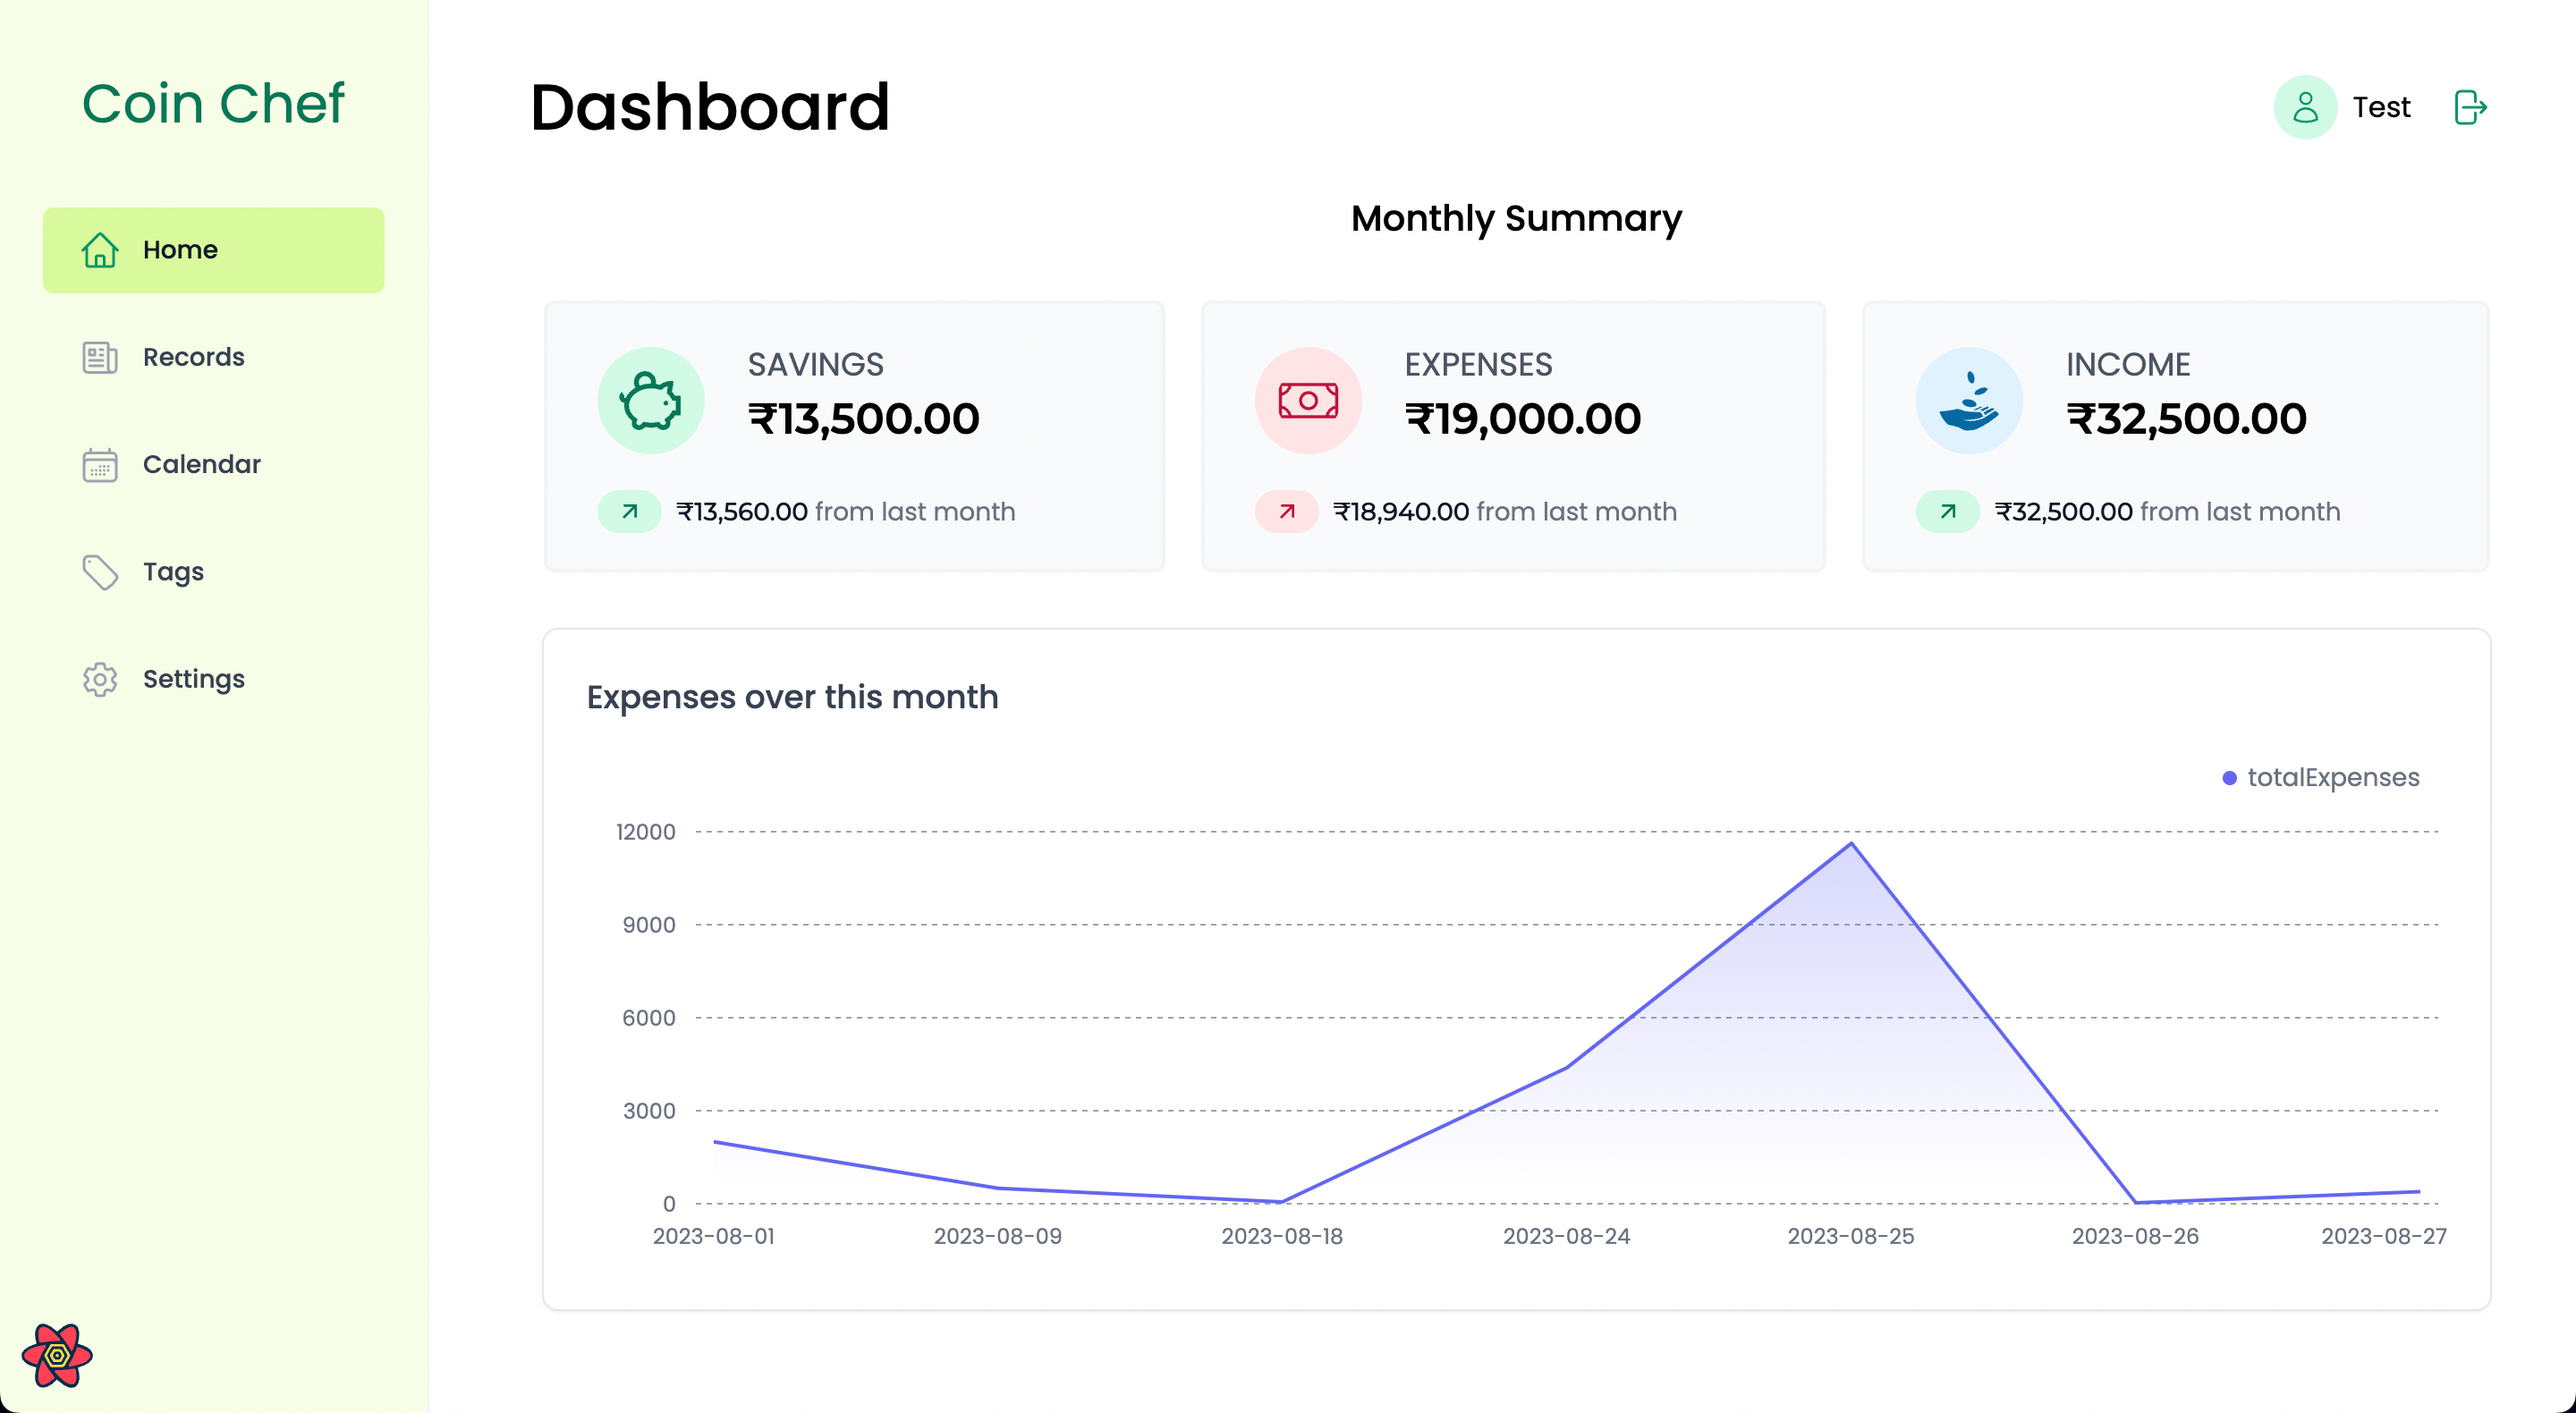
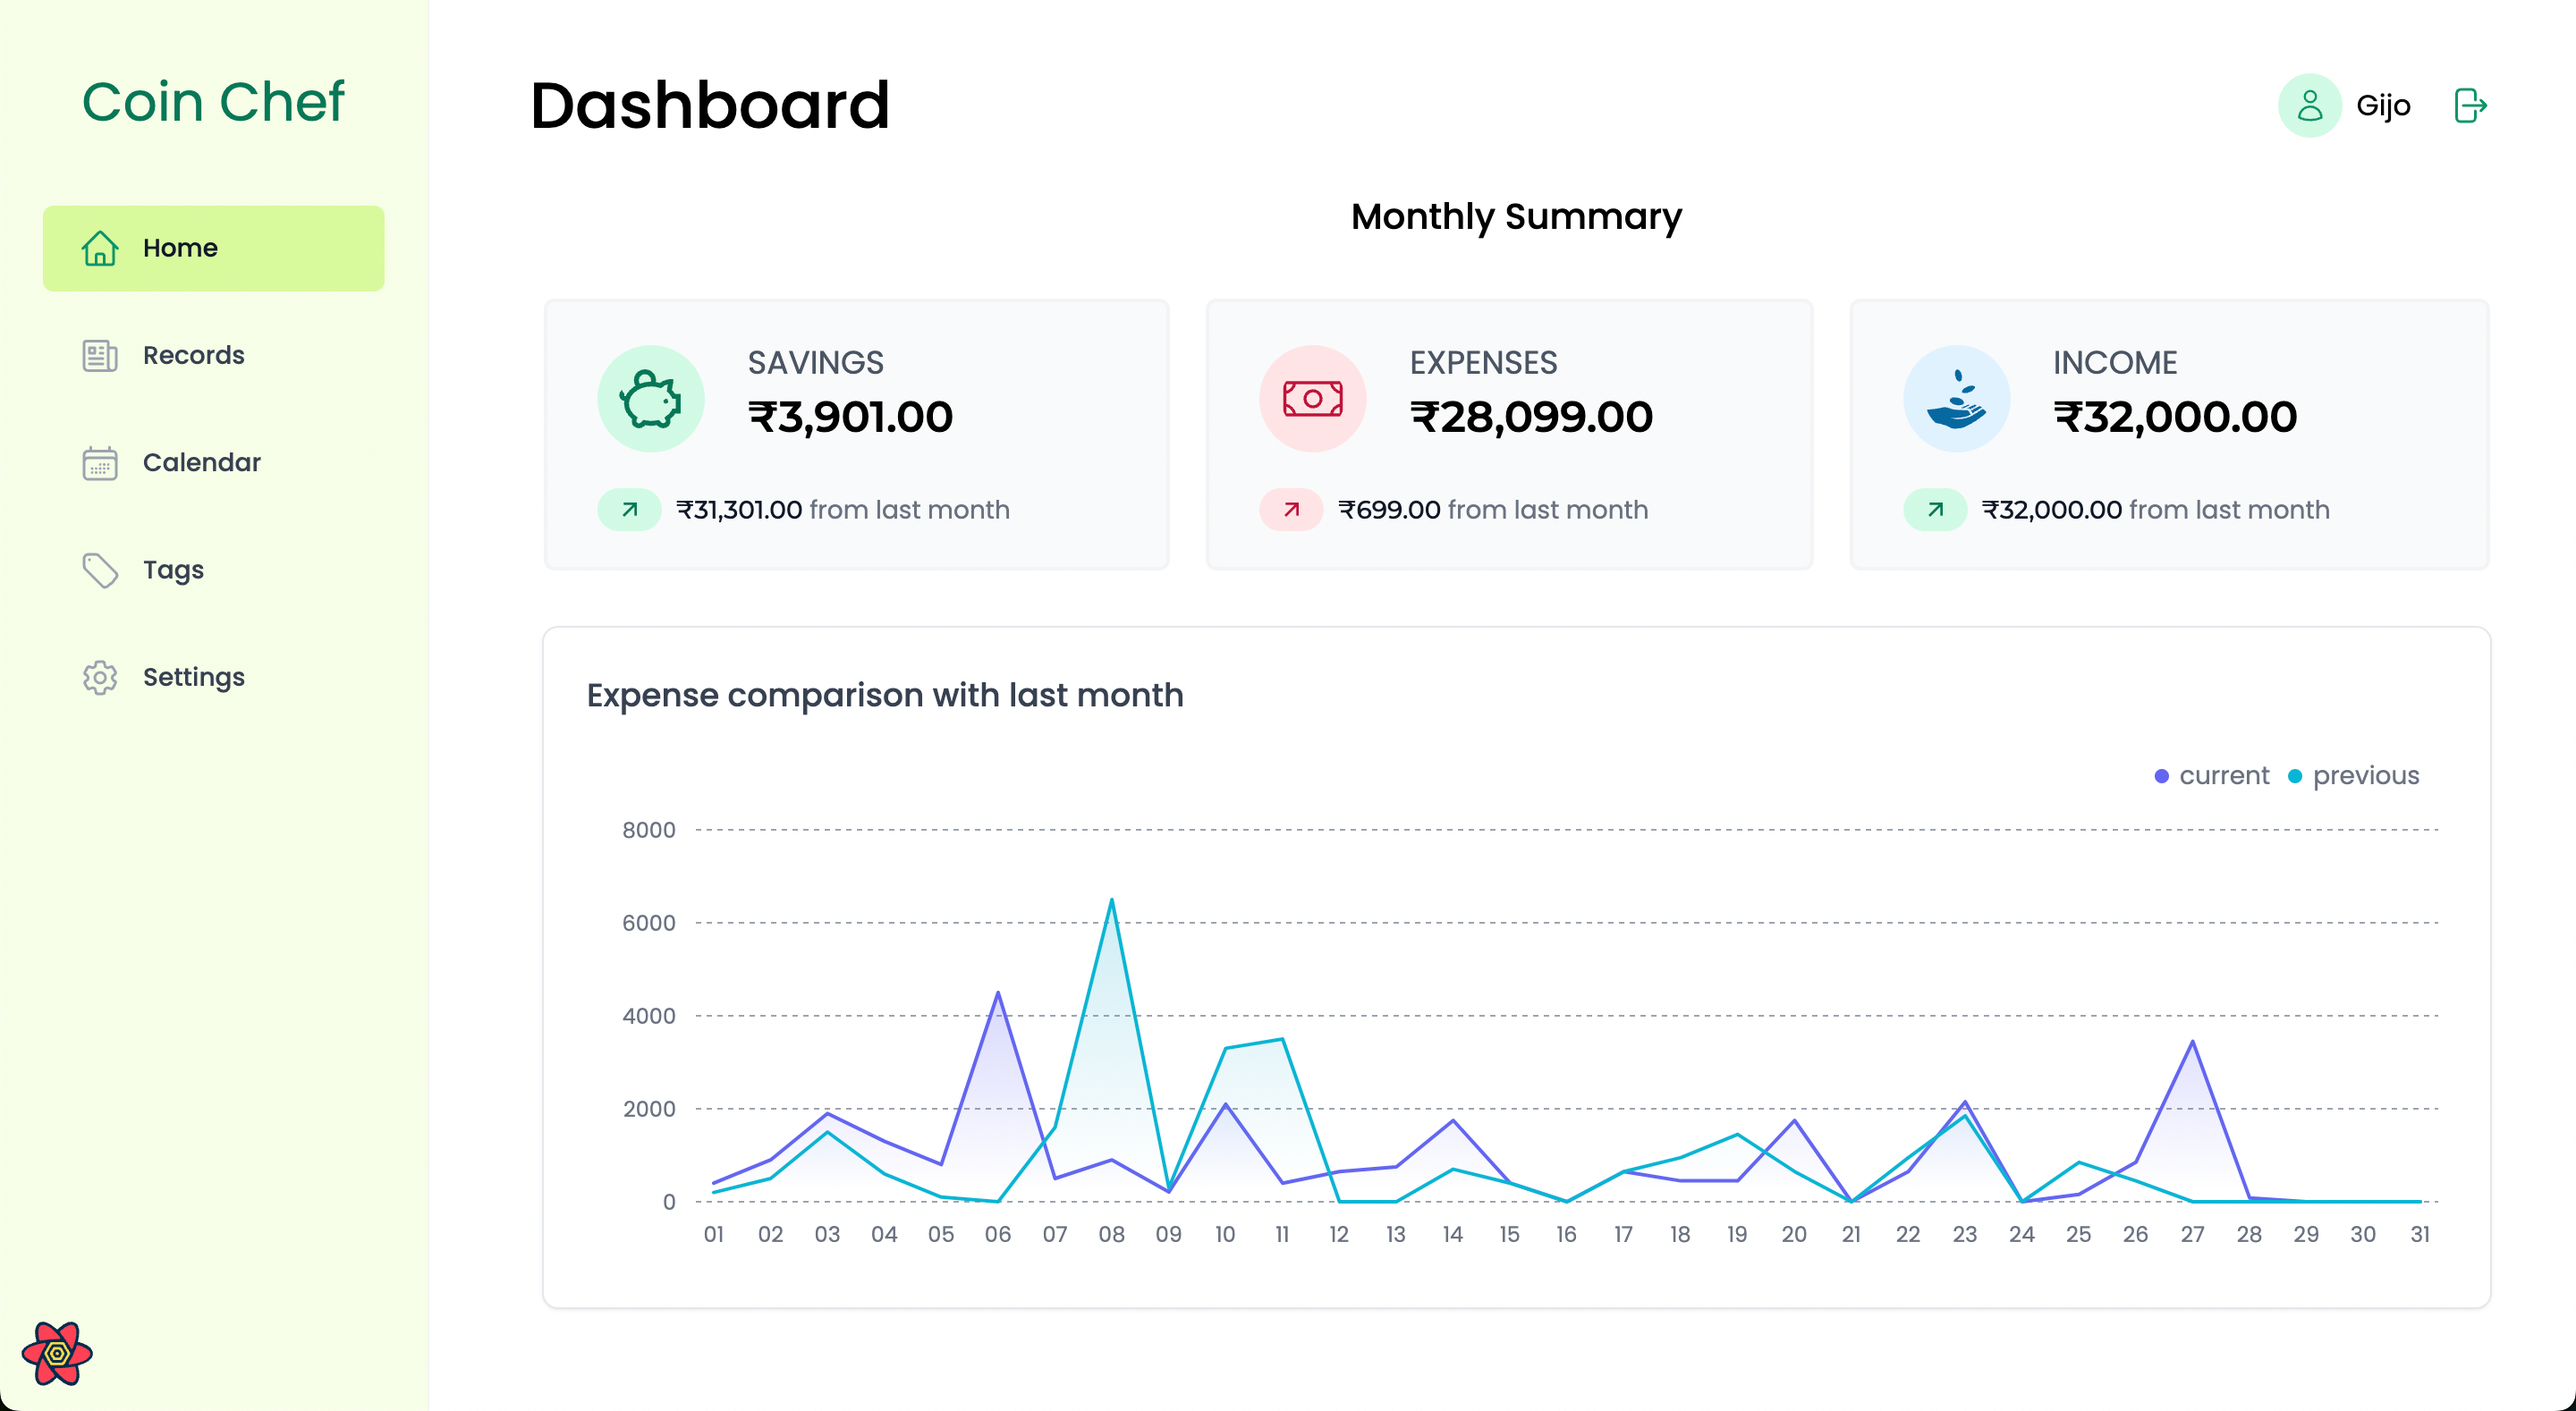
add: graph in dashboard

diff --git a/src/pages/Dashboard.jsx b/src/pages/Dashboard.jsx
@@ -1,4 +1,4 @@
-import { DateTime } from 'luxon';
+import { DateTime, Interval } from 'luxon';
 import { LiaPiggyBankSolid } from 'react-icons/lia';
 import { GiReceiveMoney } from 'react-icons/gi';
 import { PiMoneyLight } from 'react-icons/pi';
@@ -12,23 +12,27 @@ import { useDateData } from '../features/dashboard/useDateData';
 import DashboardGraph from '../features/dashboard/DashboardGraph';
 
 const currFirstDay = DateTime.now().startOf('month');
-const currLastDay = DateTime.now().endOf('day');
+const currLastDay = DateTime.now().endOf('month');
 
 const prevFirstDay = DateTime.now().startOf('month').minus({ month: 1 });
-const prevLastDay = DateTime.now().endOf('day').minus({ month: 1 });
+const prevLastDay = DateTime.now().endOf('month').minus({ month: 1 });
+
+let interval = Interval.fromDateTimes(currFirstDay, currLastDay)
+  .splitBy({ day: 1 })
+  .map((date) => date.start.toISODate());
 
 function Dashboard() {
   const { isLoading: userLoading, user } = useUser();
   if (userLoading) <Loader />;
 
   const currentMonthBody = {
-    startDate: currFirstDay.toUTC().toJSDate(),
-    endDate: currLastDay.toUTC().toJSDate(),
+    startDate: currFirstDay.toUTC().toISO(),
+    endDate: currLastDay.toUTC().toISO(),
   };
 
   const previousMonthBody = {
-    startDate: prevFirstDay.toUTC().toJSDate(),
-    endDate: prevLastDay.toUTC().toJSDate(),
+    startDate: prevFirstDay.toUTC().toISO(),
+    endDate: prevLastDay.toUTC().toISO(),
   };
 
   const { isLoading: currentLoading, tags: currentMonthData } = useTags(
@@ -44,12 +48,36 @@ function Dashboard() {
     currentMonthBody,
     currLastDay,
   );
+  const { isLoading: prevDateDataLoading, dateData: prevDateData } =
+    useDateData(previousMonthBody, prevLastDay);
 
-  if (currentLoading || previousLoading || userLoading || dateDataLoading)
+  if (
+    currentLoading ||
+    previousLoading ||
+    userLoading ||
+    dateDataLoading ||
+    prevDateDataLoading
+  )
     return <Loader />;
 
   const dateWiseExpenses = dateData?.data?.dateWiseExpenses;
-  // console.log(dateWiseExpenses);
+  const previousDateWiseExpenses = prevDateData?.data?.dateWiseExpenses;
+
+  const data = interval.map((date) => {
+    return {
+      label: DateTime.fromISO(date).toFormat('dd'),
+      current: dateWiseExpenses
+        ?.filter((expense) => date === expense._id)
+        .reduce((acc, curr) => acc + parseInt(curr.totalExpenses), 0),
+      previous: previousDateWiseExpenses
+        ?.filter(
+          (expense) =>
+            DateTime.fromISO(date).toFormat('dd') ===
+            DateTime.fromISO(expense._id).toFormat('dd'),
+        )
+        .reduce((acc, curr) => acc + parseInt(curr.totalExpenses), 0),
+    };
+  });
 
   const { expenseStats: currExpenseStats, incomeStats: currIncomeStats } =
     totalStatsHelper(currentMonthData);
@@ -99,7 +127,7 @@ function Dashboard() {
       </div>
       <div>
         <DashboardGraph
-          chartData={dateWiseExpenses}
+          chartData={data}
           currency={user?.data?.settings[0]?.currency}
         />
       </div>

diff --git a/src/features/dashboard/DashboardGraph.jsx b/src/features/dashboard/DashboardGraph.jsx
@@ -4,13 +4,13 @@ import { formatCurrency } from '../../utils/helpers';
 function DashboardGraph({ chartData, currency }) {
   return (
     <Card>
-      <Title>Expenses over this month</Title>
+      <Title>Expense comparison with last month</Title>
       <AreaChart
         className='mt-4 h-72'
         data={chartData}
-        index='_id'
-        categories={['totalExpenses']}
-        colors={['indigo']}
+        index='label'
+        categories={['current', 'previous']}
+        colors={['indigo', 'cyan']}
       />
     </Card>
   );
